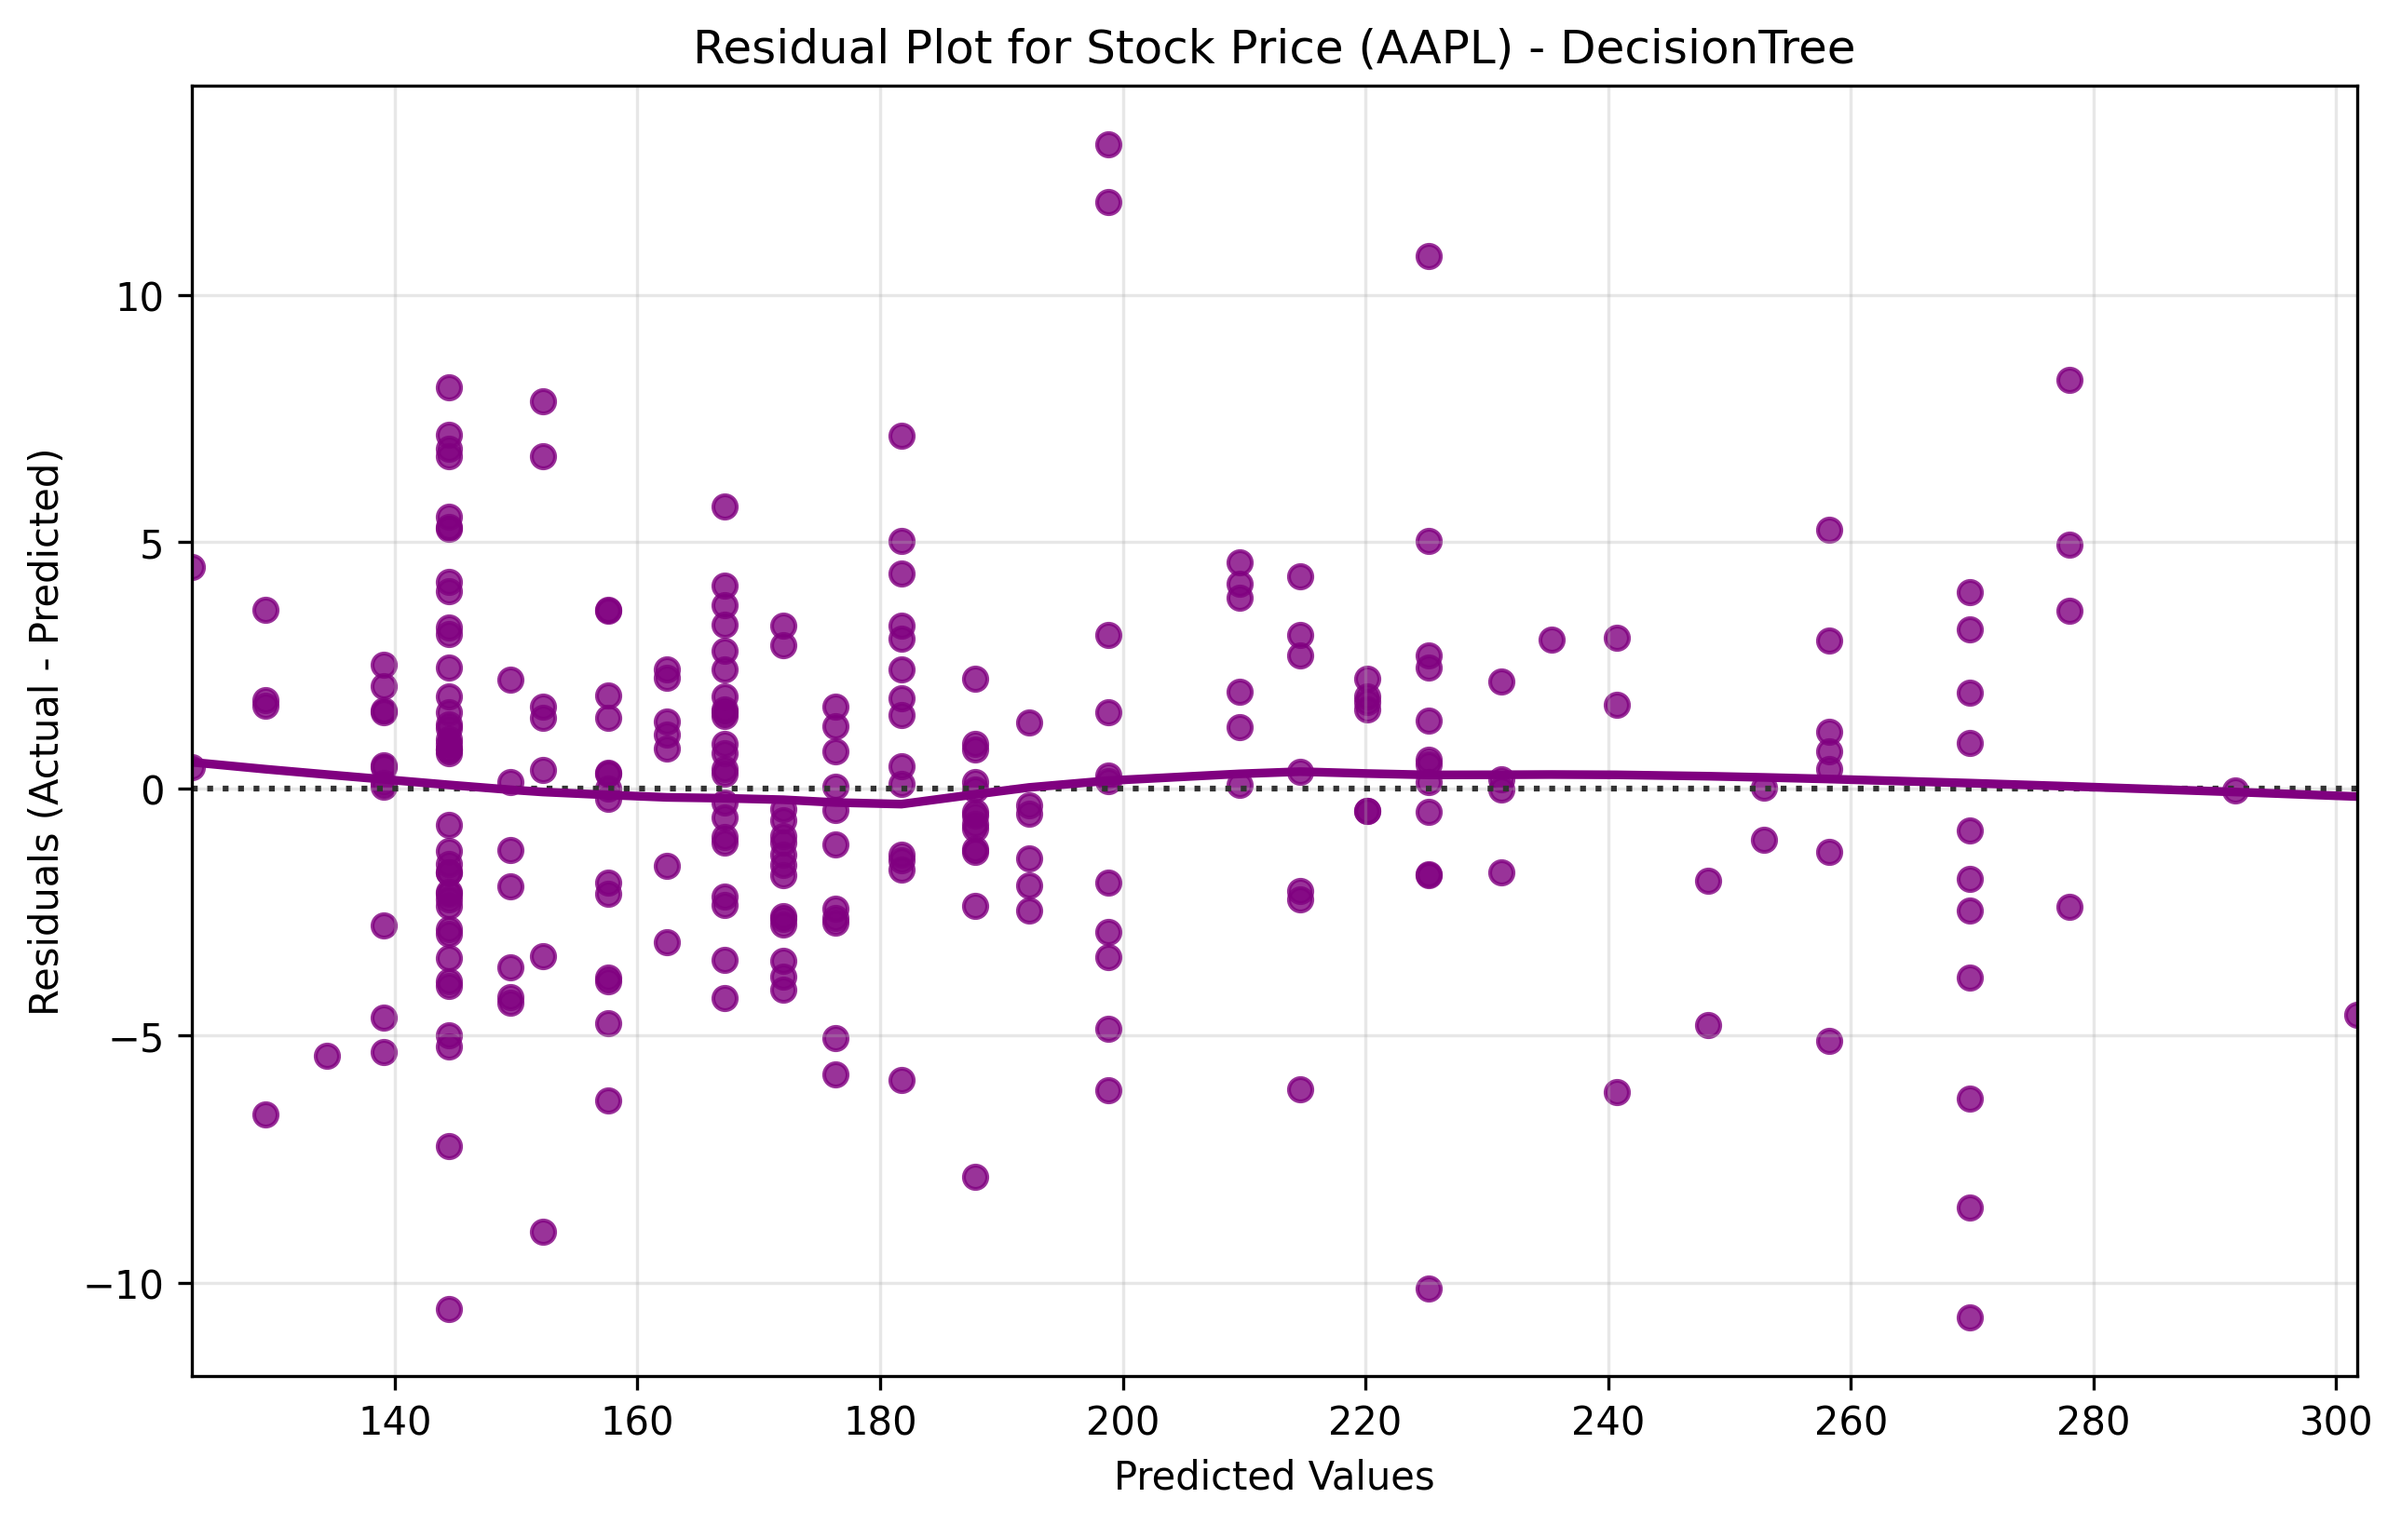
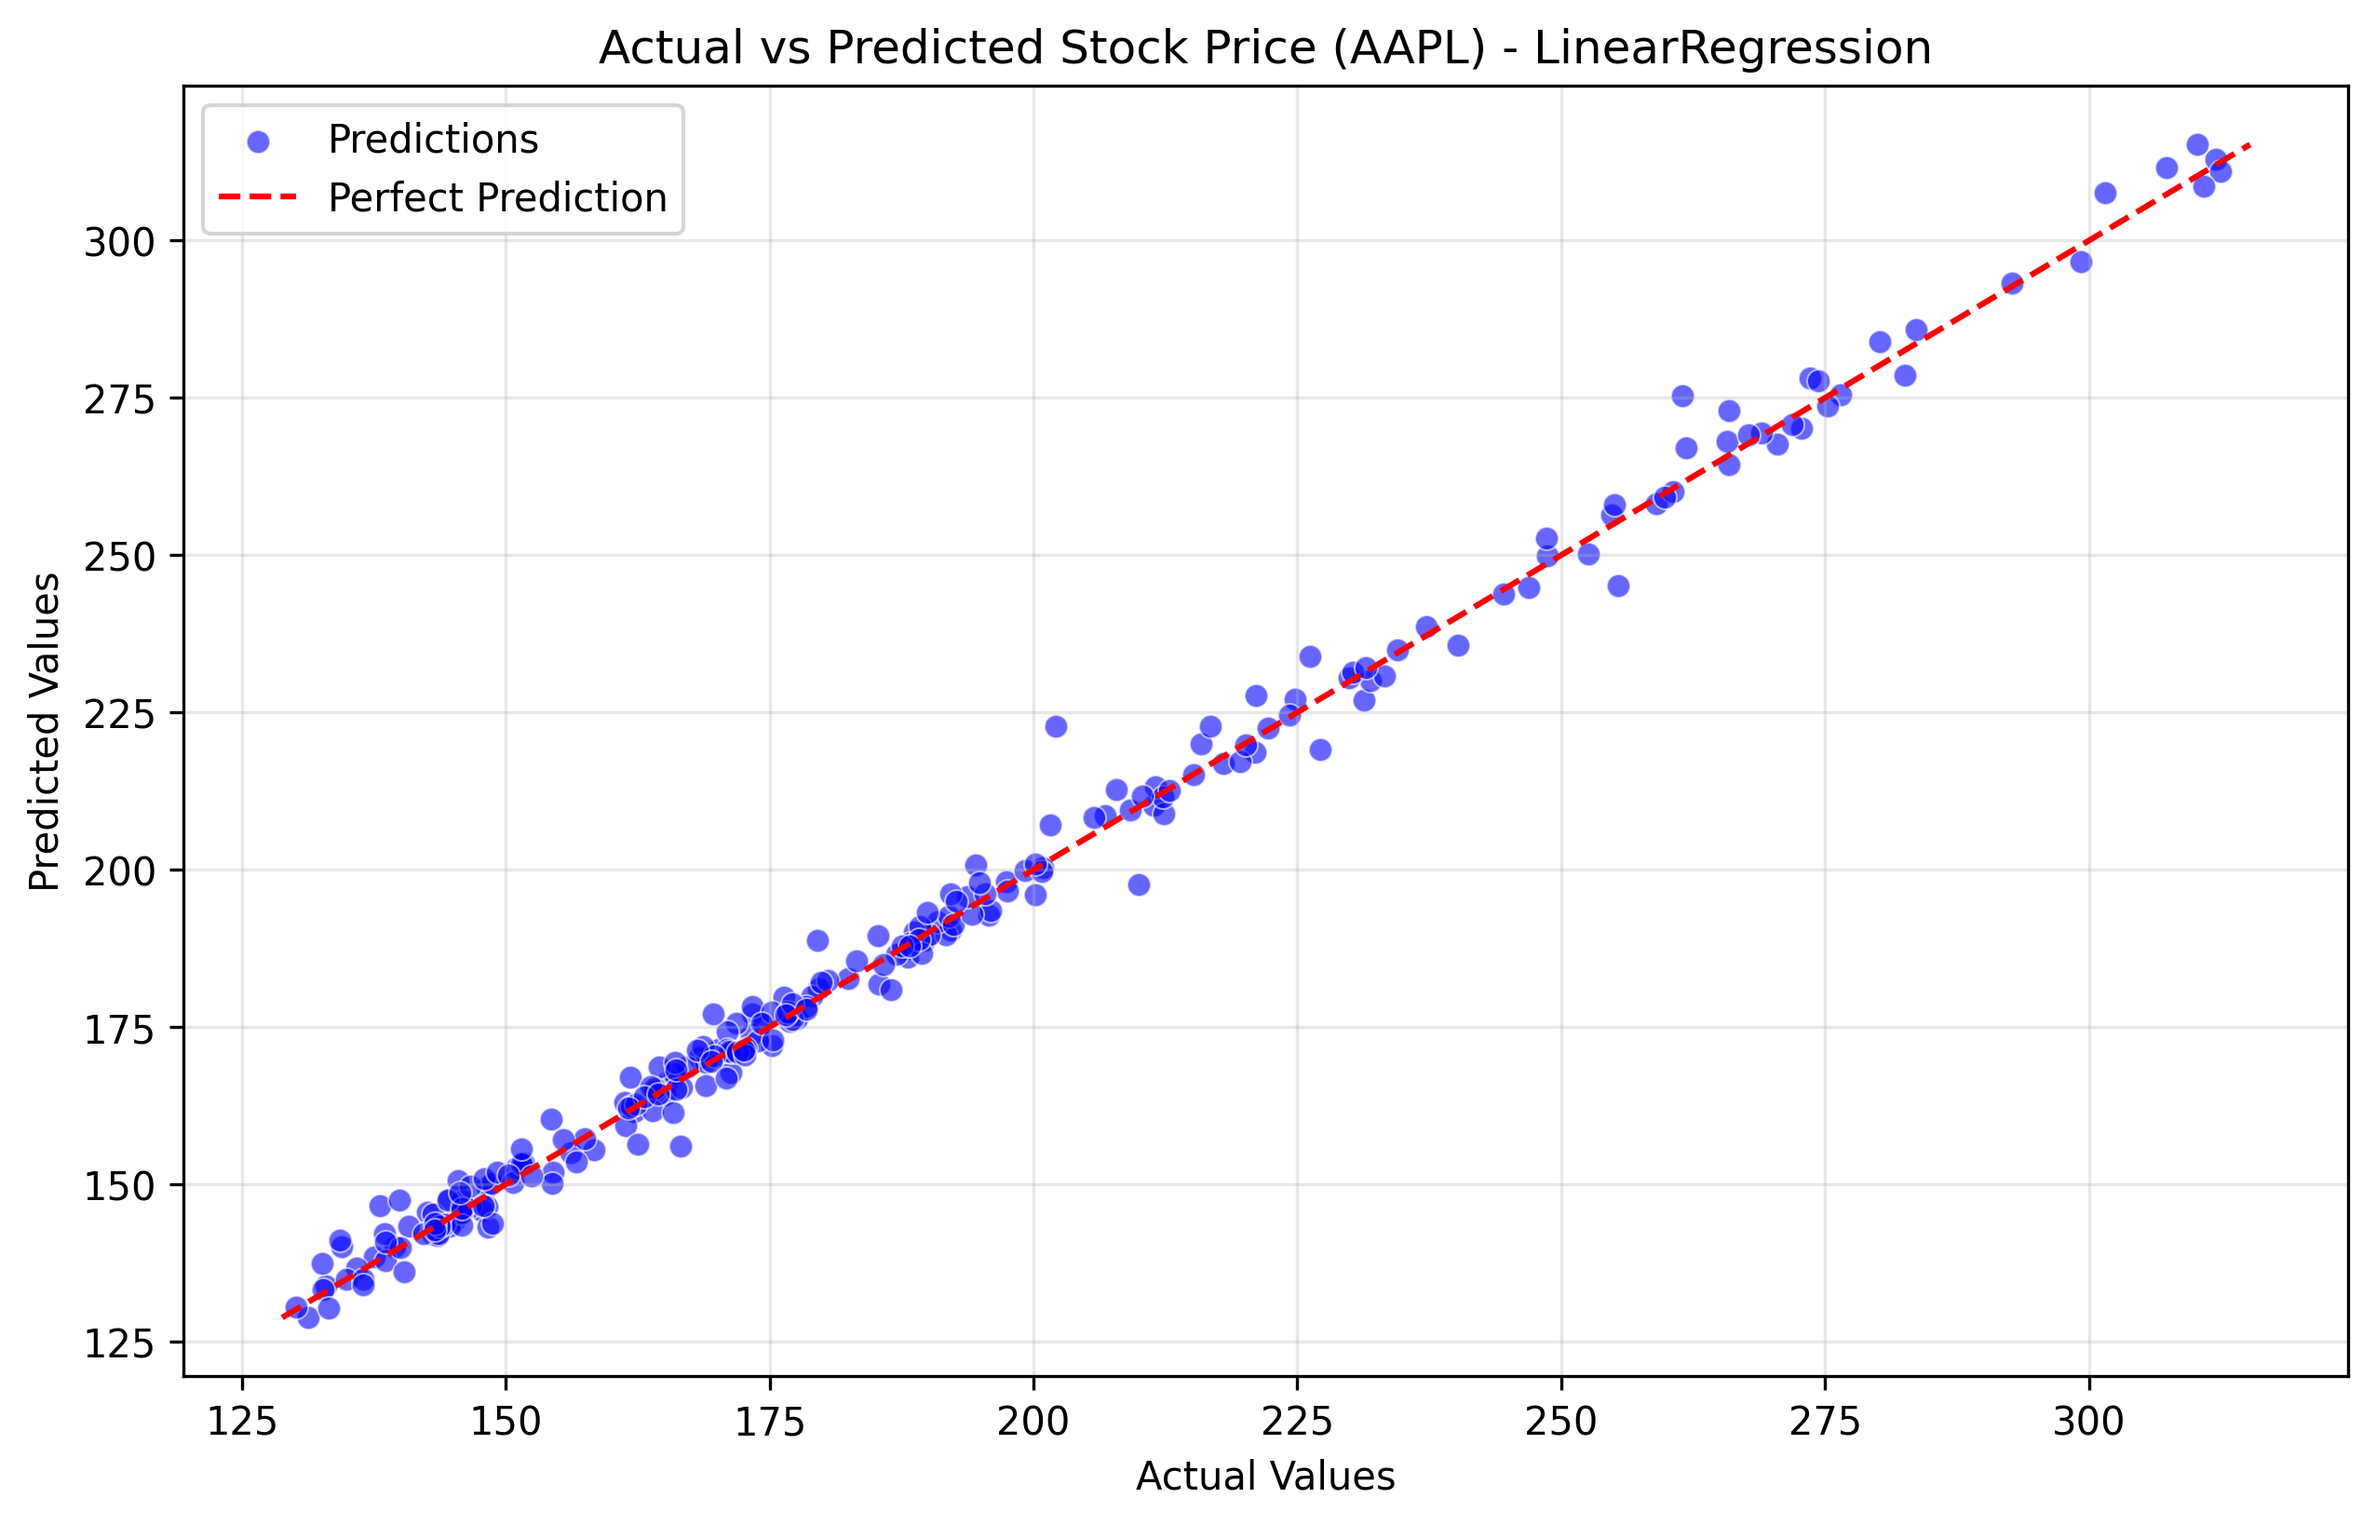
bug Fixed

diff --git a/Script/train.py b/Script/train.py
@@ -22,7 +22,7 @@ def model_train():
     config = load_config()
     
     target_var = os.environ.get("TARGET_VARIABLE", "Stock Price")
-    model_type = os.environ.get("MODEL_TYPE", "RandomForest")
+    model_type = os.environ.get("MODEL_TYPE", "Auto")
     visualization_type = os.environ.get("VISUALIZATION_TYPE", "Scatter Plot")
     ticker = os.environ.get("TICKER", "AAPL")
     
@@ -46,49 +46,65 @@ def model_train():
     
     print(f"Training {model_type}...")
     
-    if model_type == "RandomForest":
-        estimator = RandomForestRegressor(random_state=random_state)
-        param_grid = config['train']['param_grids'].get('RandomForest', {})
-    elif model_type == "GradientBoosting":
-        estimator = GradientBoostingRegressor(random_state=random_state)
-        param_grid = config['train']['param_grids'].get('GradientBoosting', {})
-    elif model_type == "LinearRegression":
-        estimator = LinearRegression()
-        param_grid = config['train']['param_grids'].get('LinearRegression', {})
-    elif model_type == "SVR":
-        estimator = SVR()
-        param_grid = config['train']['param_grids'].get('SVR', {})
-    elif model_type == "KNeighbors":
-        estimator = KNeighborsRegressor()
-        param_grid = config['train']['param_grids'].get('KNeighbors', {})
-    elif model_type == "DecisionTree":
-        estimator = DecisionTreeRegressor(random_state=random_state)
-        param_grid = config['train']['param_grids'].get('DecisionTree', {})
-    else:
-        raise ValueError(f"Unsupported model type: {model_type}")
-        
+    available_models = {
+        "RandomForest": RandomForestRegressor(random_state=random_state),
+        "GradientBoosting": GradientBoostingRegressor(random_state=random_state),
+        "LinearRegression": LinearRegression(),
+        "SVR": SVR(),
+        "KNeighbors": KNeighborsRegressor(),
+        "DecisionTree": DecisionTreeRegressor(random_state=random_state)
+    }
+    
+    best_overall_model = None
+    best_overall_params = {}
+    best_overall_r2 = -float('inf')
+    best_model_name = ""
+    
     n_samples = len(X_train)
     cv_splits = min(3, max(2, n_samples))
     
-    if n_samples < 2:
-        print("Dataset too small for Cross-Validation. Training model directly.")
-        best_model = estimator
-        best_model.fit(X_train, y_train)
-        best_params = {}
-    else:
-        grid_search = GridSearchCV(
-            estimator=estimator,
-            param_grid=param_grid,
-            cv=cv_splits,
-            scoring="neg_mean_squared_error",
-            n_jobs=-1,
-            verbose=2
-        )
-        grid_search.fit(X_train, y_train)
-        best_model = grid_search.best_estimator_
-        best_params = grid_search.best_params_
+    models_to_evaluate = ["RandomForest", "GradientBoosting", "LinearRegression", "DecisionTree"] if model_type == "Auto" else [model_type]
     
-    print("Evaluating Model...")
+    for m_name in models_to_evaluate:
+        print(f"Evaluating {m_name}...")
+        estimator = available_models[m_name]
+        param_grid = config['train']['param_grids'].get(m_name, {})
+        
+        if m_name not in available_models:
+            raise ValueError(f"Unsupported model type: {m_name}")
+            
+        if n_samples < 2:
+            model = estimator
+            model.fit(X_train, y_train)
+            params = {}
+        else:
+            grid_search = GridSearchCV(
+                estimator=estimator,
+                param_grid=param_grid,
+                cv=cv_splits,
+                scoring="neg_mean_squared_error",
+                n_jobs=-1,
+                verbose=0
+            )
+            grid_search.fit(X_train, y_train)
+            model = grid_search.best_estimator_
+            params = grid_search.best_params_
+            
+        preds = model.predict(X_test)
+        r2 = r2_score(y_test, preds)
+        
+        if r2 > best_overall_r2:
+            best_overall_r2 = r2
+            best_overall_model = model
+            best_overall_params = params
+            best_model_name = m_name
+
+    best_model = best_overall_model
+    best_params = best_overall_params
+    model_type = best_model_name
+    
+    print(f"Selected Model: {model_type}")
+    
     predictions = best_model.predict(X_test)
     
     mse = mean_squared_error(y_test, predictions)
@@ -151,10 +167,25 @@ def model_train():
     
     print(f"Prediction plot saved to {plot_path}")
     
+    # Make Prediction on Latest Data
+    data_dir = os.path.dirname(config['data']['raw_data_path'])
+    latest_data_path = os.path.join(data_dir, "latest_data.csv")
+    latest_price_info = ""
+    if os.path.exists(latest_data_path):
+        latest_df = pd.read_csv(latest_data_path)
+        if not latest_df.empty:
+            future_pred = best_model.predict(latest_df)[0]
+            if target_var == "Stock Price" and 'Close' in latest_df.columns:
+                last_known = latest_df['Close'].iloc[-1]
+                latest_price_info = f"\n### 💰 Stock Price Info\n- **Latest Known Close Price**: `${last_known:.2f}`\n- **Predicted Next Day Close**: `${future_pred:.2f}`\n"
+            elif target_var == "Revenue" and 'Total Revenue' in latest_df.columns:
+                last_known = latest_df['Total Revenue'].iloc[-1]
+                latest_price_info = f"\n### 💰 Revenue Info\n- **Latest Known Revenue**: `${last_known:,.2f}`\n- **Predicted Next Quarter Revenue**: `${future_pred:,.2f}`\n"
+
     formatted_params = json.dumps(best_params, indent=2)
     metrics_md = f"""## 📊 Financial Prediction Metrics ({target_var})
 ### 📈 Ticker: {ticker} | 🤖 Model: {model_type}
-
+{latest_price_info}
 | Metric | Score |
 |---|---|
 | **R² Score** | `{r2:.4f}` |

diff --git a/Script/fetch_data.py b/Script/fetch_data.py
@@ -21,7 +21,6 @@ def fetch_data():
         hist.reset_index(inplace=True)
         # We want to predict Next Day's Close
         hist['Target'] = hist['Close'].shift(-1)
-        hist.dropna(inplace=True) 
         
         # Select features
         features = ['Open', 'High', 'Low', 'Close', 'Volume']
@@ -45,13 +44,14 @@ def fetch_data():
         
         # Sort chronologically
         revenue = revenue.sort_values('Date').reset_index(drop=True)
-        # Target is next quarter's revenue
-        revenue['Target'] = revenue['Total Revenue'].shift(-1)
-        revenue.dropna(inplace=True)
         
         # Add some historical lags as features to make the model richer than 1 feature
         revenue['Prev_Quarter_Rev'] = revenue['Total Revenue'].shift(1)
-        revenue.dropna(inplace=True)
+        # Drop only the row where Prev_Quarter_Rev is NaN (first row)
+        revenue = revenue.dropna(subset=['Prev_Quarter_Rev'])
+        
+        # Target is next quarter's revenue
+        revenue['Target'] = revenue['Total Revenue'].shift(-1)
         
         df = revenue[['Total Revenue', 'Prev_Quarter_Rev', 'Target']]
         
@@ -62,6 +62,13 @@ def fetch_data():
     if not os.path.exists(data_dir):
         os.makedirs(data_dir)
         
+    # Save latest unlabelled data for prediction before dropping
+    latest_row = df.iloc[[-1]].drop(columns=['Target'])
+    latest_row.to_csv(os.path.join(data_dir, "latest_data.csv"), index=False)
+    
+    # Drop rows where target is NaN
+    df.dropna(inplace=True)
+    
     df.to_csv(config['data']['raw_data_path'], index=False)
     print(f"Data saved to {config['data']['raw_data_path']}")
     print(f"Shape: {df.shape}")

diff --git a/metrics.md b/metrics.md
@@ -1,17 +1,20 @@
 ## 📊 Financial Prediction Metrics (Stock Price)
-### 📈 Ticker: AAPL | 🤖 Model: DecisionTree
+### 📈 Ticker: AAPL | 🤖 Model: LinearRegression
+
+### 💰 Stock Price Info
+- **Latest Known Close Price**: `$299.24`
+- **Predicted Next Day Close**: `$299.41`
 
 | Metric | Score |
 |---|---|
-| **R² Score** | `0.9919` |
-| **RMSE** | `3.6512` |
-| **MAE** | `2.7958` |
-| **MSE** | `13.3314` |
+| **R² Score** | `0.9939` |
+| **RMSE** | `3.4347` |
+| **MAE** | `2.3728` |
+| **MSE** | `11.7969` |
 
 ### 🛠 Best Hyperparameters
 ```json
 {
-  "max_depth": 5,
-  "min_samples_split": 2
+  "fit_intercept": false
 }
 ```
